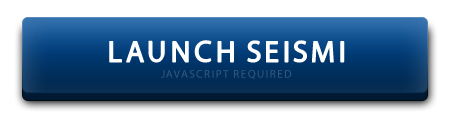
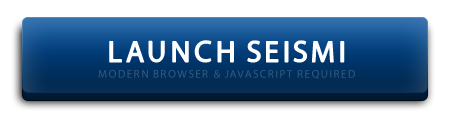
launch button updated

Changed region(s): [[0.0622, 0.225, 0.9644, 0.9], [0.2178, 0.575, 0.8089, 0.65], [0.0311, 0.2, 0.0622, 0.85]]

diff --git a/css/style.css b/css/style.css
@@ -187,8 +187,8 @@ body.lng h2{font:normal 16px/1.6 extravaganzza, Arial,Helvetica,sans-serif; colo
 #introduction h1 {padding:20px 60px;}
 #launch img{padding-bottom:10px;}
 
-#introduction{margin:50px auto 0 auto; width:715px; }
-#container{background:#171717;border-top:1px solid #1c1c1c;padding:30px 0 40px 0;margin-top:100px;}
+#introduction{margin:30px auto 40px auto; width:715px; }
+#container{background:#171717;border-top:1px solid #1c1c1c;padding:30px 0 40px 0;margin-top:80px;}
 #info, #documentation{width:920px;margin:0 auto;text-align:left;}
 	#i1, #i2, #i3{float:left;width:280px;border-bottom:1px solid #222;padding-bottom:10px;}
 	#i2{margin-left:40px;}
